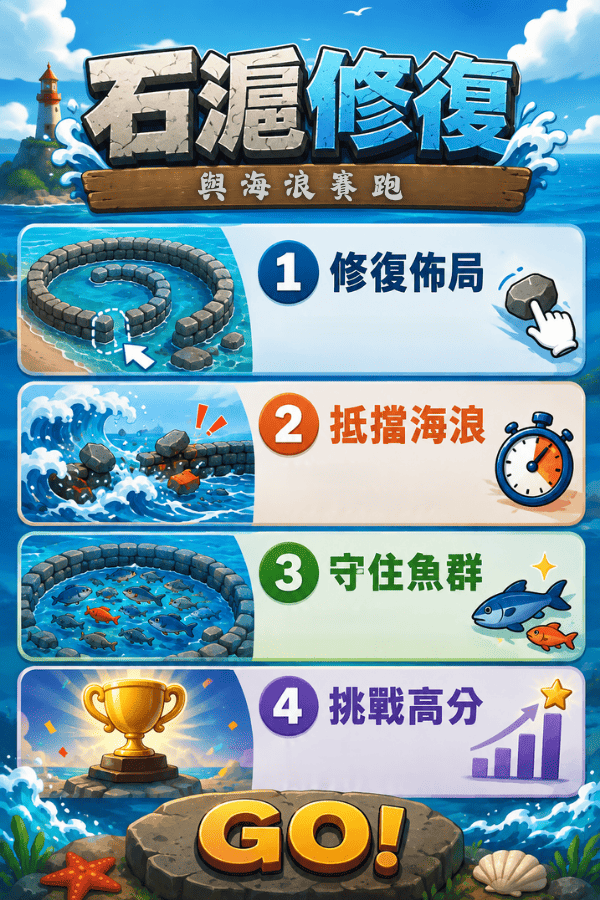
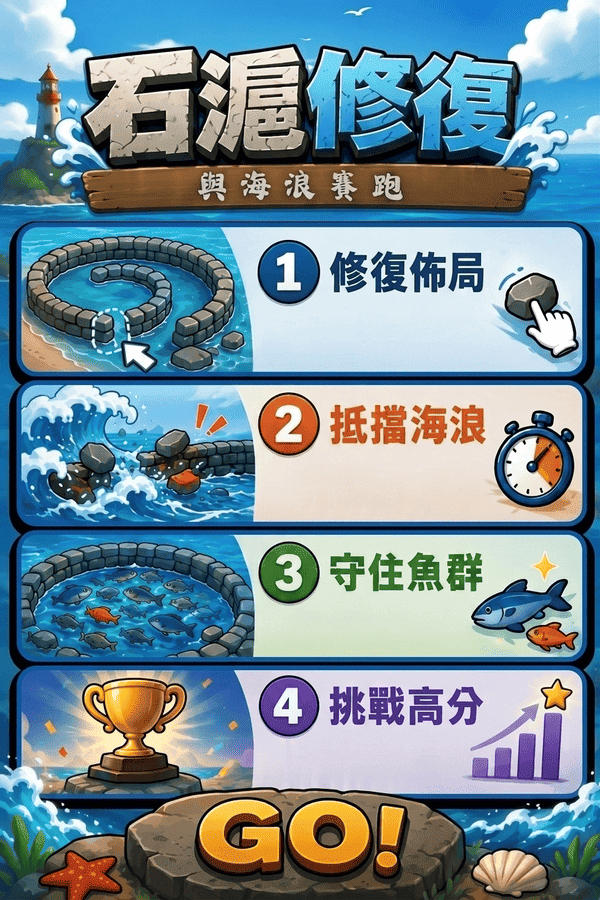
test

diff --git a/stoneweir.html b/stoneweir.html
@@ -319,6 +319,11 @@
   .stat.danger{border-color:var(--outline);background:linear-gradient(180deg,#ffcdbd 0%, var(--coral) 100%);}
   .stat.danger b{color:#fff;text-shadow:0 1px 2px rgba(0,0,0,.5);}
 
+  .board-pit-shadow{mix-blend-mode:multiply;}
+
+  .icon-slot{display:inline-flex;align-items:center;justify-content:center;vertical-align:middle;line-height:0;}
+  .icon-slot canvas{display:block;}
+
   .sound-toggle-btn{
     position:fixed;top:10px;right:10px;z-index:70;
     width:40px;height:40px;border-radius:50%;
@@ -379,7 +384,7 @@
     </div>
 
     <div class="board-wrap">
-    <div class="tool-broken-banner" id="toolBrokenBanner">🔧 工具壞了，維修中…</div>
+    <div class="tool-broken-banner" id="toolBrokenBanner"><span class="icon-slot" id="iconWrench"></span> 工具壞了，維修中…</div>
     <div id="birdFlyLayer"></div>
     <svg id="board" viewBox="0 0 526 476">
       <defs>
@@ -404,7 +409,16 @@
           <circle cx="6.3" cy="9" r="1.5" fill="var(--outline)"/>
           <circle cx="6.7" cy="8.6" r=".5" fill="#fff"/>
         </symbol>
+        <radialGradient id="pitShadowGrad" cx="50%" cy="50%" r="50%">
+          <stop offset="0%" stop-color="#b8790a" stop-opacity=".55"/>
+          <stop offset="50%" stop-color="#dda832" stop-opacity=".22"/>
+          <stop offset="100%" stop-color="#dda832" stop-opacity="0"/>
+        </radialGradient>
+        <filter id="pitBlur" x="-40%" y="-40%" width="180%" height="180%">
+          <feGaussianBlur stdDeviation="7"/>
+        </filter>
       </defs>
+      <ellipse class="board-pit-shadow" cx="263" cy="215" rx="248" ry="238" fill="url(#pitShadowGrad)" filter="url(#pitBlur)"/>
       <g id="connectorLayer"></g>
       <g id="fishLayer"></g>
       <g id="stoneLayer"></g>
@@ -420,7 +434,7 @@
 
 <div class="overlay" id="winOverlay">
   <div class="modal">
-    <div class="medal">🪨</div>
+    <div class="medal"><span class="icon-slot" id="iconMedalWin"></span></div>
     <h2>石滬修復完成！</h2>
     <div class="stars" id="finalStars"></div>
     <div class="score-rank"><b id="finalScore">1000</b><span class="score-unit">分</span></div>
@@ -430,7 +444,7 @@
     </div>
     <div class="score-breakdown" id="scoreBreakdown"></div>
     <div class="tip-carousel" id="winTipCarousel">
-      <div class="tip-icon">💡</div>
+      <div class="tip-icon"><span class="icon-slot" id="iconTipWin"></span></div>
       <div class="tip-body">
         <div class="tip-text" id="winTipText"></div>
         <div class="tip-dots" id="winTipDots"></div>
@@ -445,7 +459,7 @@
 
 <div class="overlay" id="loseOverlay">
   <div class="modal modal-lose">
-    <div class="medal">🌊</div>
+    <div class="medal"><span class="icon-slot" id="iconMedalLose"></span></div>
     <h2>滬堤決堤了……</h2>
     <p class="lose-msg">分數已歸零，海水衝破了滬堤，這次搶修失敗了。</p>
     <div class="result-grid">
@@ -453,7 +467,7 @@
       <div><b id="failMoves">0</b><span>使用步數</span></div>
     </div>
     <div class="tip-carousel" id="loseTipCarousel">
-      <div class="tip-icon">💡</div>
+      <div class="tip-icon"><span class="icon-slot" id="iconTipLose"></span></div>
       <div class="tip-body">
         <div class="tip-text" id="loseTipText"></div>
         <div class="tip-dots" id="loseTipDots"></div>
@@ -1560,6 +1574,247 @@ function finishGame(){
   winTipCarousel.showRandom();
   document.getElementById('winOverlay').classList.add('active');
 }
+
+/* ============ Canvas 圖示（只畫一次，取代靜態 emoji：扳手／石頭獎牌／海浪徽章／燈泡） ============
+   喇叭開關跟浮動 +N 魚獲維持原本 emoji 不變，因為喇叭要頻繁切換、魚獲會重複生成很多次，
+   目前用 emoji 字元反而比較輕量；這裡只處理「畫一次、幾乎不變」的 4 個圖示。 */
+(function(){
+  const OUTLINE = '#241407';
+
+  function makeCanvas(size){
+    const dpr = window.devicePixelRatio || 1;
+    const c = document.createElement('canvas');
+    c.width = Math.round(size*dpr); c.height = Math.round(size*dpr);
+    c.style.width = size+'px'; c.style.height = size+'px';
+    const ctx = c.getContext('2d');
+    ctx.scale(dpr,dpr);
+    return {c, ctx};
+  }
+
+  function strokePath(ctx, path, width){
+    ctx.lineWidth = width; ctx.strokeStyle = OUTLINE;
+    ctx.lineJoin = 'round'; ctx.lineCap = 'round';
+    ctx.stroke(path);
+  }
+
+  function drawPuck(ctx, cx, cy, r, colorTop, colorMid, colorBottom){
+    ctx.save();
+    ctx.shadowColor = 'rgba(0,0,0,.35)';
+    ctx.shadowBlur = r*0.18;
+    ctx.shadowOffsetY = r*0.16;
+    const grad = ctx.createLinearGradient(0, cy-r, 0, cy+r);
+    grad.addColorStop(0, colorTop); grad.addColorStop(.55, colorMid); grad.addColorStop(1, colorBottom);
+    ctx.beginPath(); ctx.arc(cx, cy, r, 0, Math.PI*2); ctx.fillStyle = grad; ctx.fill();
+    ctx.restore();
+    ctx.lineWidth = Math.max(2, r*0.09); ctx.strokeStyle = OUTLINE;
+    ctx.beginPath(); ctx.arc(cx, cy, r, 0, Math.PI*2); ctx.stroke();
+    const hi = ctx.createRadialGradient(cx-r*0.32, cy-r*0.4, r*0.05, cx-r*0.32, cy-r*0.4, r*0.85);
+    hi.addColorStop(0, 'rgba(255,255,255,.75)'); hi.addColorStop(1, 'rgba(255,255,255,0)');
+    ctx.beginPath(); ctx.arc(cx, cy, r*0.96, 0, Math.PI*2); ctx.fillStyle = hi; ctx.fill();
+  }
+
+  /* ---- 扳手（工具壞了） ---- */
+  function drawWrench(ctx, size){
+    ctx.save();
+    ctx.translate(size/2, size/2);
+    ctx.rotate(-38*Math.PI/180);
+    const s = size*0.019;
+    const path = new Path2D();
+    path.moveTo(-16*s,-6*s);
+    path.quadraticCurveTo(-20*s,-6*s,-20*s,-2*s);
+    path.lineTo(-20*s,2*s);
+    path.quadraticCurveTo(-20*s,6*s,-16*s,6*s);
+    path.lineTo(12*s,6*s);
+    path.quadraticCurveTo(20*s,6*s,20*s,2*s);
+    path.quadraticCurveTo(24*s,2*s,24*s,-2*s);
+    path.quadraticCurveTo(24*s,-6*s,20*s,-6*s);
+    path.quadraticCurveTo(20*s,-2*s,16*s,-2*s);
+    path.quadraticCurveTo(12*s,-2*s,12*s,-6*s);
+    path.lineTo(-16*s,-6*s);
+    path.closePath();
+    ctx.shadowColor='rgba(0,0,0,.4)'; ctx.shadowBlur=size*0.05; ctx.shadowOffsetY=size*0.03;
+    const grad = ctx.createLinearGradient(0,-6*s,0,6*s);
+    grad.addColorStop(0,'#e7ecef'); grad.addColorStop(.5,'#c8d1d6'); grad.addColorStop(1,'#7d8c94');
+    ctx.fillStyle = grad; ctx.fill(path);
+    ctx.shadowColor='transparent';
+    strokePath(ctx, path, s*1.7);
+    ctx.strokeStyle='rgba(255,255,255,.75)'; ctx.lineWidth=s*1.1; ctx.lineCap='round';
+    ctx.beginPath(); ctx.moveTo(-14*s,-3.2*s); ctx.lineTo(9*s,-3.2*s); ctx.stroke();
+    ctx.restore();
+  }
+
+  /* ---- 石頭獎牌（過關）：獎牌 + 明顯的雙尾緞帶，掛在獎牌上方 ---- */
+  function drawMedalStone(ctx, size){
+    const cx=size/2, cy=size*0.62, r=size*0.29;
+    const s = size*0.021;
+    ctx.save();
+    ctx.translate(cx, cy);
+    // 緞帶：從獎牌後方向上展開成 V 字，尾端剪出燕尾缺角，畫在獎牌之前 = 視覺上在後方
+    function ribbonTail(dir, colorA, colorB){
+      const p = new Path2D();
+      const topX = dir*4.5*s, topY = -r*0.55;
+      p.moveTo(topX-dir*5*s, topY);
+      p.lineTo(dir*17*s, -r*1.9);
+      p.lineTo(dir*22*s, -r*1.55);
+      p.lineTo(dir*11*s, -r*0.55 + 2*s);
+      p.lineTo(topX+dir*4*s, topY + 3*s);
+      p.closePath();
+      const g = ctx.createLinearGradient(0, -r*1.9, 0, -r*0.5);
+      g.addColorStop(0, colorA); g.addColorStop(1, colorB);
+      ctx.fillStyle = g; ctx.fill(p);
+      ctx.lineWidth = s*1.3; ctx.strokeStyle = OUTLINE; ctx.lineJoin='round'; ctx.stroke(p);
+    }
+    ribbonTail(-1, '#00e6d2', '#087a89');
+    ribbonTail(1, '#ff8a68', '#c2280f');
+    ctx.restore();
+
+    drawPuck(ctx, cx, cy, r, '#fff2a8', '#ffcd00', '#b8790a');
+
+    ctx.save();
+    ctx.translate(cx, cy);
+    ctx.lineWidth = s*1.4; ctx.strokeStyle='rgba(138,75,22,.65)'; ctx.lineCap='round';
+    ctx.beginPath(); ctx.moveTo(-9*s,-1*s); ctx.quadraticCurveTo(-2*s,7*s, 6*s,-2*s); ctx.stroke();
+    ctx.beginPath(); ctx.moveTo(-4*s,-8*s); ctx.quadraticCurveTo(-1*s,-1*s, 4*s,-7*s); ctx.stroke();
+    ctx.fillStyle='#fffaea'; ctx.strokeStyle=OUTLINE; ctx.lineWidth=s*0.6;
+    const star = new Path2D('M0,-6 L1.6,-1.8 L6,-1.8 L2.6,1 L4,5.6 L0,2.8 L-4,5.6 L-2.6,1 L-6,-1.8 L-1.6,-1.8 Z');
+    ctx.save(); ctx.translate(9*s,-8*s); ctx.scale(.85,.85); ctx.fill(star); ctx.stroke(star); ctx.restore();
+    ctx.restore();
+  }
+
+  /* ---- 決堤（失敗）：兩塊斷裂石塊中間裂開，海水從縫隙噴湧而出——
+     不用獎章式的圓形亮面底盤，故意讓形狀破碎、不對稱，才不會跟「過關」的獎牌搞混 ---- */
+  function drawBreach(ctx, size){
+    const cx=size/2, cy=size/2;
+    const s = size*0.021;
+    ctx.save();
+    ctx.translate(cx,cy);
+
+    // 背後噴出的水花（先畫，讓石塊疊在上面）
+    const splash = new Path2D();
+    splash.moveTo(-6*s,6*s);
+    splash.lineTo(-9*s,-4*s);
+    splash.lineTo(-4*s,-9*s);
+    splash.lineTo(-2*s,-17*s);
+    splash.lineTo(1.5*s,-8*s);
+    splash.lineTo(5*s,-15*s);
+    splash.lineTo(4.5*s,-4*s);
+    splash.lineTo(9*s,-6*s);
+    splash.lineTo(6*s,7*s);
+    splash.closePath();
+    ctx.shadowColor='rgba(0,0,0,.25)'; ctx.shadowBlur=size*0.04; ctx.shadowOffsetY=size*0.015;
+    const sg = ctx.createLinearGradient(0,-17*s,0,7*s);
+    sg.addColorStop(0,'#eafcff'); sg.addColorStop(.5,'#4ee0ff'); sg.addColorStop(1,'#0d70b0');
+    ctx.fillStyle = sg; ctx.fill(splash);
+    ctx.shadowColor='transparent';
+    strokePath(ctx, splash, s*1.3);
+    // 幾滴四散的水珠
+    [[-11*s,-11*s,1.6*s],[10*s,-13*s,1.3*s],[13*s,-2*s,1.1*s]].forEach(([x,y,rr])=>{
+      ctx.beginPath(); ctx.arc(x,y,rr,0,Math.PI*2);
+      ctx.fillStyle='#8fe0f2'; ctx.fill();
+      ctx.lineWidth=s*0.7; ctx.strokeStyle=OUTLINE; ctx.stroke();
+    });
+
+    // 左邊斷石
+    const leftRock = new Path2D();
+    leftRock.moveTo(-21*s,13*s);
+    leftRock.lineTo(-22*s,-4*s);
+    leftRock.lineTo(-15*s,-13*s);
+    leftRock.lineTo(-7*s,-10*s);
+    leftRock.lineTo(-4*s,-3*s);
+    leftRock.lineTo(-8*s,1*s);
+    leftRock.lineTo(-5*s,6*s);
+    leftRock.lineTo(-9*s,15*s);
+    leftRock.closePath();
+    ctx.shadowColor='rgba(0,0,0,.35)'; ctx.shadowBlur=size*0.035; ctx.shadowOffsetY=size*0.02;
+    const lg = ctx.createLinearGradient(-22*s,-13*s,-4*s,15*s);
+    lg.addColorStop(0,'#c8d1d6'); lg.addColorStop(.55,'#9aa7ae'); lg.addColorStop(1,'#414c55');
+    ctx.fillStyle = lg; ctx.fill(leftRock);
+    ctx.shadowColor='transparent';
+    strokePath(ctx, leftRock, s*1.5);
+    // 裂痕
+    ctx.strokeStyle='rgba(26,41,66,.55)'; ctx.lineWidth=s*0.8; ctx.lineCap='round';
+    ctx.beginPath(); ctx.moveTo(-17*s,-7*s); ctx.lineTo(-12*s,-1*s); ctx.lineTo(-14*s,5*s); ctx.stroke();
+
+    // 右邊斷石（鏡射）
+    const rightRock = new Path2D();
+    rightRock.moveTo(21*s,13*s);
+    rightRock.lineTo(22*s,-4*s);
+    rightRock.lineTo(15*s,-13*s);
+    rightRock.lineTo(7*s,-10*s);
+    rightRock.lineTo(4*s,-3*s);
+    rightRock.lineTo(8*s,1*s);
+    rightRock.lineTo(5*s,6*s);
+    rightRock.lineTo(9*s,15*s);
+    rightRock.closePath();
+    ctx.shadowColor='rgba(0,0,0,.35)'; ctx.shadowBlur=size*0.035; ctx.shadowOffsetY=size*0.02;
+    const rg = ctx.createLinearGradient(22*s,-13*s,4*s,15*s);
+    rg.addColorStop(0,'#c8d1d6'); rg.addColorStop(.55,'#9aa7ae'); rg.addColorStop(1,'#414c55');
+    ctx.fillStyle = rg; ctx.fill(rightRock);
+    ctx.shadowColor='transparent';
+    strokePath(ctx, rightRock, s*1.5);
+    ctx.strokeStyle='rgba(26,41,66,.55)'; ctx.lineWidth=s*0.8; ctx.lineCap='round';
+    ctx.beginPath(); ctx.moveTo(17*s,-7*s); ctx.lineTo(12*s,-1*s); ctx.lineTo(14*s,5*s); ctx.stroke();
+
+    ctx.restore();
+  }
+
+  /* ---- 燈泡（提示）：中間用「！」取代原本的燈絲 X ---- */
+  function drawBulb(ctx, size){
+    ctx.save();
+    ctx.translate(size/2, size/2*0.94);
+    const s = size*0.021;
+    const glass = new Path2D();
+    glass.moveTo(-8*s,-2*s);
+    glass.bezierCurveTo(-11*s,-8*s,-7*s,-15*s,0,-15*s);
+    glass.bezierCurveTo(7*s,-15*s,11*s,-8*s,8*s,-2*s);
+    glass.bezierCurveTo(7*s,2*s,5*s,3*s,5*s,7*s);
+    glass.lineTo(-5*s,7*s);
+    glass.bezierCurveTo(-5*s,3*s,-7*s,2*s,-8*s,-2*s);
+    glass.closePath();
+    ctx.shadowColor='rgba(0,0,0,.3)'; ctx.shadowBlur=size*0.05; ctx.shadowOffsetY=size*0.02;
+    const gg = ctx.createRadialGradient(-3*s,-10*s,1*s,0,-6*s,16*s);
+    gg.addColorStop(0,'#fff9d6'); gg.addColorStop(.55,'#ffe066'); gg.addColorStop(1,'#e8a80a');
+    ctx.fillStyle = gg; ctx.fill(glass);
+    ctx.shadowColor='transparent';
+    strokePath(ctx, glass, s*1.6);
+    // 燈絲改成「！」：一段圓角粗豎線 + 底下一個圓點
+    ctx.fillStyle = 'rgba(138,75,22,.85)';
+    ctx.strokeStyle = OUTLINE; ctx.lineWidth = s*0.4;
+    const bar = new Path2D();
+    bar.moveTo(-1.5*s,-9.5*s); bar.lineTo(1.5*s,-9.5*s); bar.lineTo(1*s,-1.5*s); bar.lineTo(-1*s,-1.5*s); bar.closePath();
+    ctx.fill(bar); ctx.stroke(bar);
+    ctx.beginPath(); ctx.arc(0, 1.2*s, 1.5*s, 0, Math.PI*2); ctx.fill(); ctx.stroke();
+    // 高光
+    ctx.fillStyle='rgba(255,255,255,.7)';
+    ctx.beginPath(); ctx.ellipse(-3.5*s,-9*s,2*s,4.5*s,0.4,0,Math.PI*2); ctx.fill();
+    // 螺紋底座
+    const base = new Path2D();
+    base.rect(-5*s,7*s,10*s,7*s);
+    const bg = ctx.createLinearGradient(-5*s,7*s,5*s,7*s);
+    bg.addColorStop(0,'#c8d1d6'); bg.addColorStop(.5,'#f3f6f7'); bg.addColorStop(1,'#9aa7ae');
+    ctx.fillStyle = bg; ctx.fill(base);
+    strokePath(ctx, base, s*1.4);
+    [9.5,11.6,13.7].forEach(y=>{
+      ctx.beginPath(); ctx.moveTo(-5*s,y*s); ctx.lineTo(5*s,y*s);
+      ctx.lineWidth=s*0.9; ctx.strokeStyle=OUTLINE; ctx.globalAlpha=.5; ctx.stroke(); ctx.globalAlpha=1;
+    });
+    ctx.restore();
+  }
+
+  function place(slotId, size, drawFn){
+    const slot = document.getElementById(slotId);
+    if(!slot) return;
+    const {c, ctx} = makeCanvas(size);
+    drawFn(ctx, size);
+    slot.appendChild(c);
+  }
+
+  place('iconWrench', 22, drawWrench);
+  place('iconMedalWin', 62, drawMedalStone);
+  place('iconMedalLose', 48, drawBreach);
+  place('iconTipWin', 26, drawBulb);
+  place('iconTipLose', 26, drawBulb);
+})();
 </script>
 </body>
 </html>
